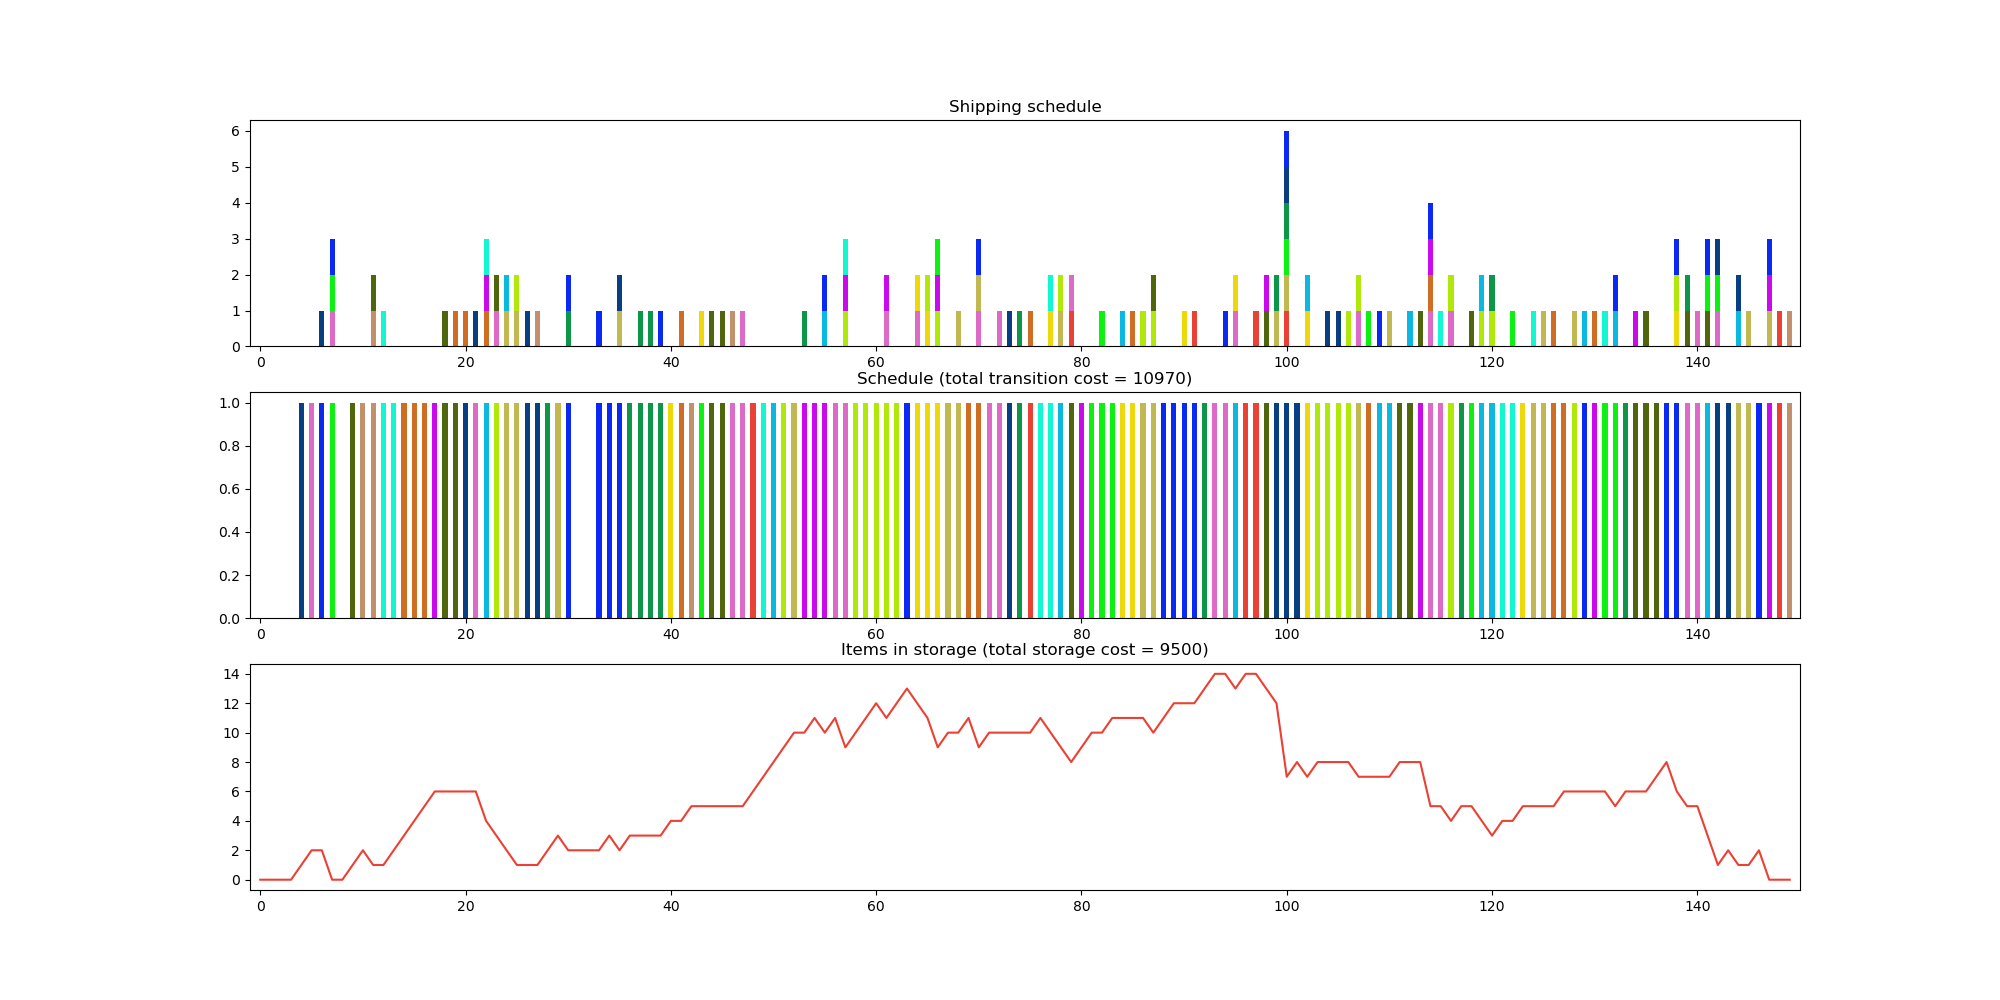
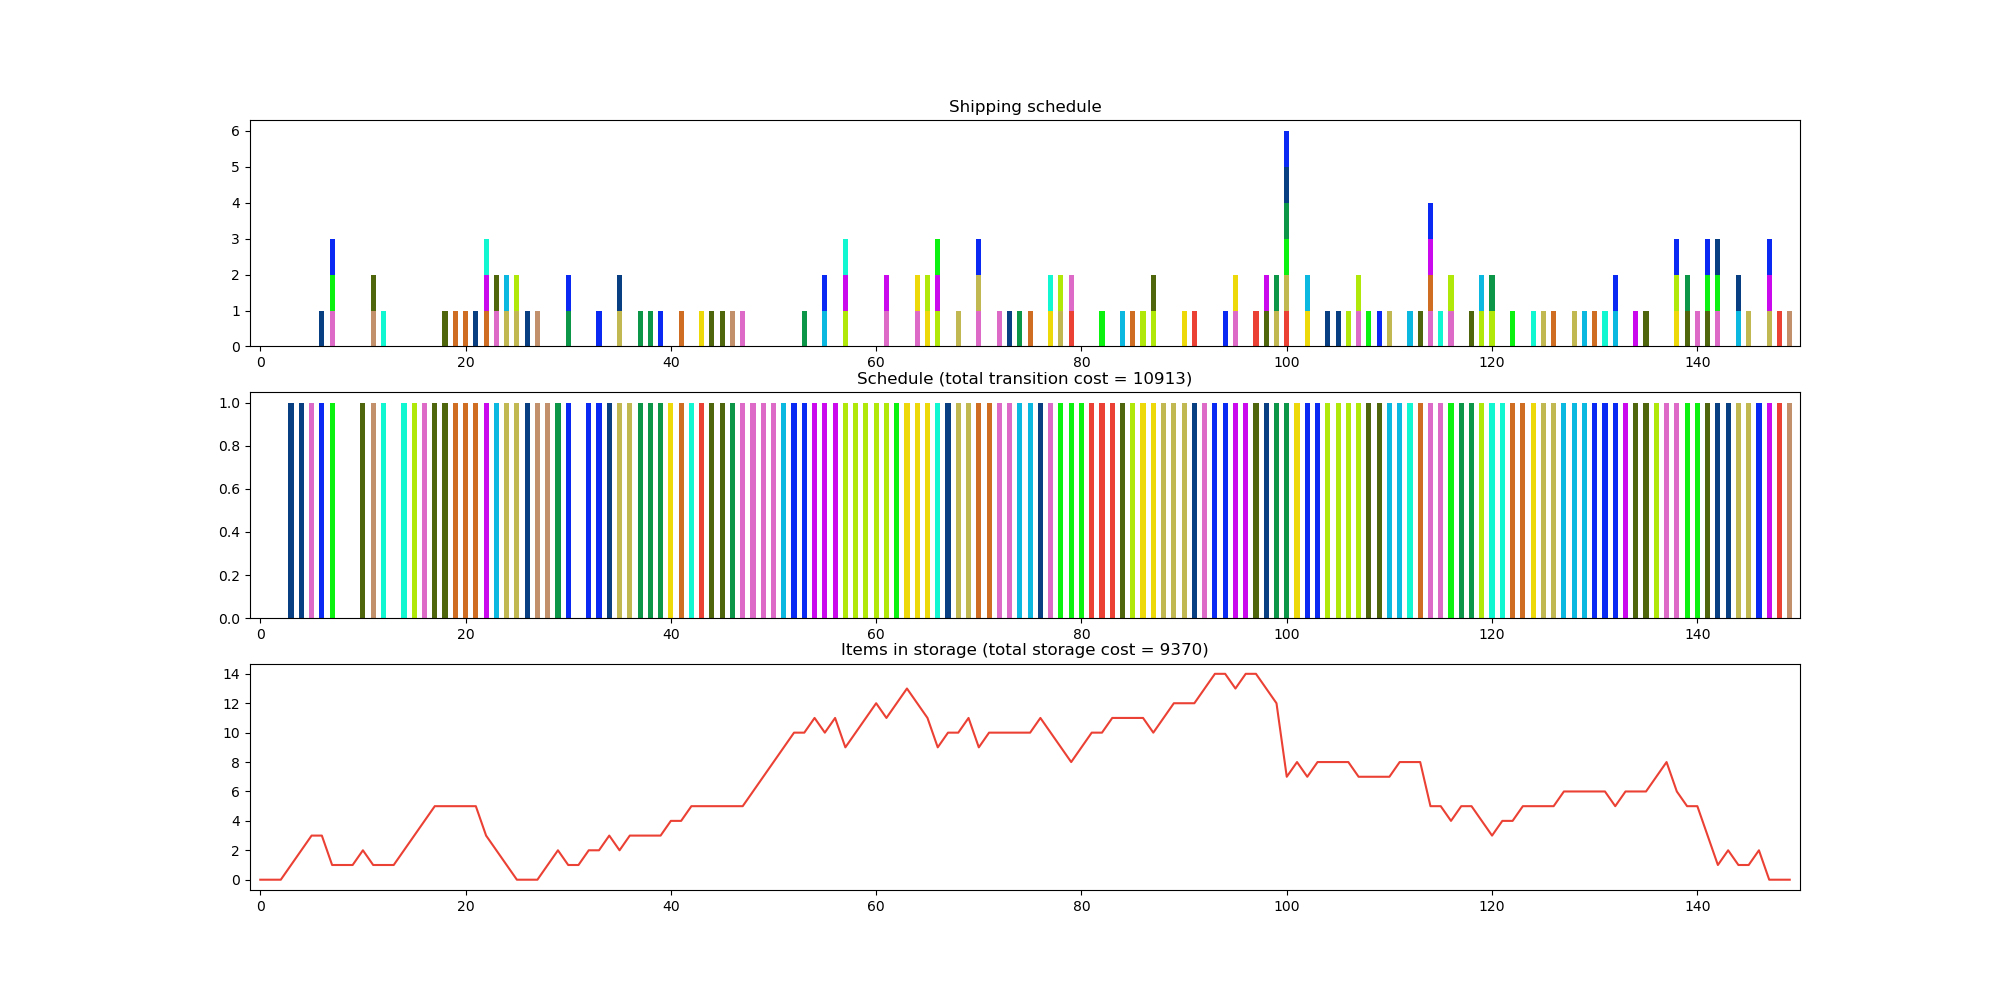
1 hyper param more

Changed region(s): [[0.155, 0.403, 0.868, 0.62], [0.155, 0.775, 0.248, 0.868], [0.248, 0.837, 0.31, 0.868]]

diff --git a/code/solver.py b/code/solver.py
@@ -745,18 +745,19 @@ def ALNS(pyg):
     #########################
     # HYPERPARAMETRES
     time_allowed = 10 # in minutes
-    nb_destroyed_var = 4
+    nb_destroyed_var = 2
     temperature = 1
     alphaT = 0.8
     reheat = 1000
-    iterations_to_reheat = 25
-    lambda_w = 0.95
-    hill_climbing_every = 10
-    W = [4,3,2,0.5] # w1 > w2 > w3 > w4
-    d_to_use = [0,1,0,1] # destruction fonctions to use (1 = we use it)
-    r_to_use = [1,0,1,1,1] # same for reconstruction
+    iterations_to_reheat = 200
+    lambda_w = 0.9
+    hill_climbing_every = 50
+    W = [5,3,2,0.5] # w1 > w2 > w3 > w4
+    d_to_use = [1,1,1,1] # destruction fonctions to use (1 = we use it)
+    r_to_use = [1,1,1,1,1] # same for reconstruction
+    with_initial = True # Ture : solve with greedy grasp random, false : succesion of 2 hill climbing algorithms
     #########################
-    print_every = 70
+    print_every = 500
 
     destroy_functions = [destroy_random,destroy_zone,destroy_zone_large,destroy_zone_short]
     omega_m = [destroy_functions[i] for i,b in enumerate(d_to_use) if b == 1]
@@ -774,6 +775,7 @@ def ALNS(pyg):
     print("iterations_to_reheat :",iterations_to_reheat)
     print("lambda_w :",lambda_w)
     print("hill_climbing_every :",hill_climbing_every)
+    print("with_initial :",with_initial)
     print(50*"=")
     print("Destruct Functions",list(map(lambda f: f.__name__, omega_m)))
     print("Construction Functions", list(map(lambda f: f.__name__, omega_p)))
@@ -783,12 +785,15 @@ def ALNS(pyg):
     start = time.time()
 
     # get good first solution
-    # s,fs = solve_greedy(pyg)
-    # s,fs = hill_climbing_fast(pyg,s)
-    # s,fs = hill_climbing_fast2(pyg,s)
-    # s,fs = hill_climbing_fast(pyg,s)
-    # s,fs = hill_climbing_fast2(pyg,s)
-    s, fs = solve_grasp_hc(pyg, 1500, 4)
+    
+    if with_initial:
+        s, fs = solve_grasp_hc(pyg, 1500, 4)
+    else:
+        s,fs = solve_greedy(pyg)
+        s,fs = hill_climbing_fast(pyg,s)
+        s,fs = hill_climbing_fast2(pyg,s)
+        s,fs = hill_climbing_fast(pyg,s)
+        s,fs = hill_climbing_fast2(pyg,s)
 
     star = s
     fstar = fs
@@ -835,7 +840,7 @@ def ALNS(pyg):
             fs = fsp
             psi = W[1] # w2 if solution is better
         elif delta != 0 and random.random() < math.exp(-delta/T):
-            print("accepted with probability",math.exp(-delta/T))
+            print(k,"accepted with probability",math.exp(-delta/T))
             s = sp
             fs = fsp
             psi = W[2] # w3 if solution is accepted but not better
